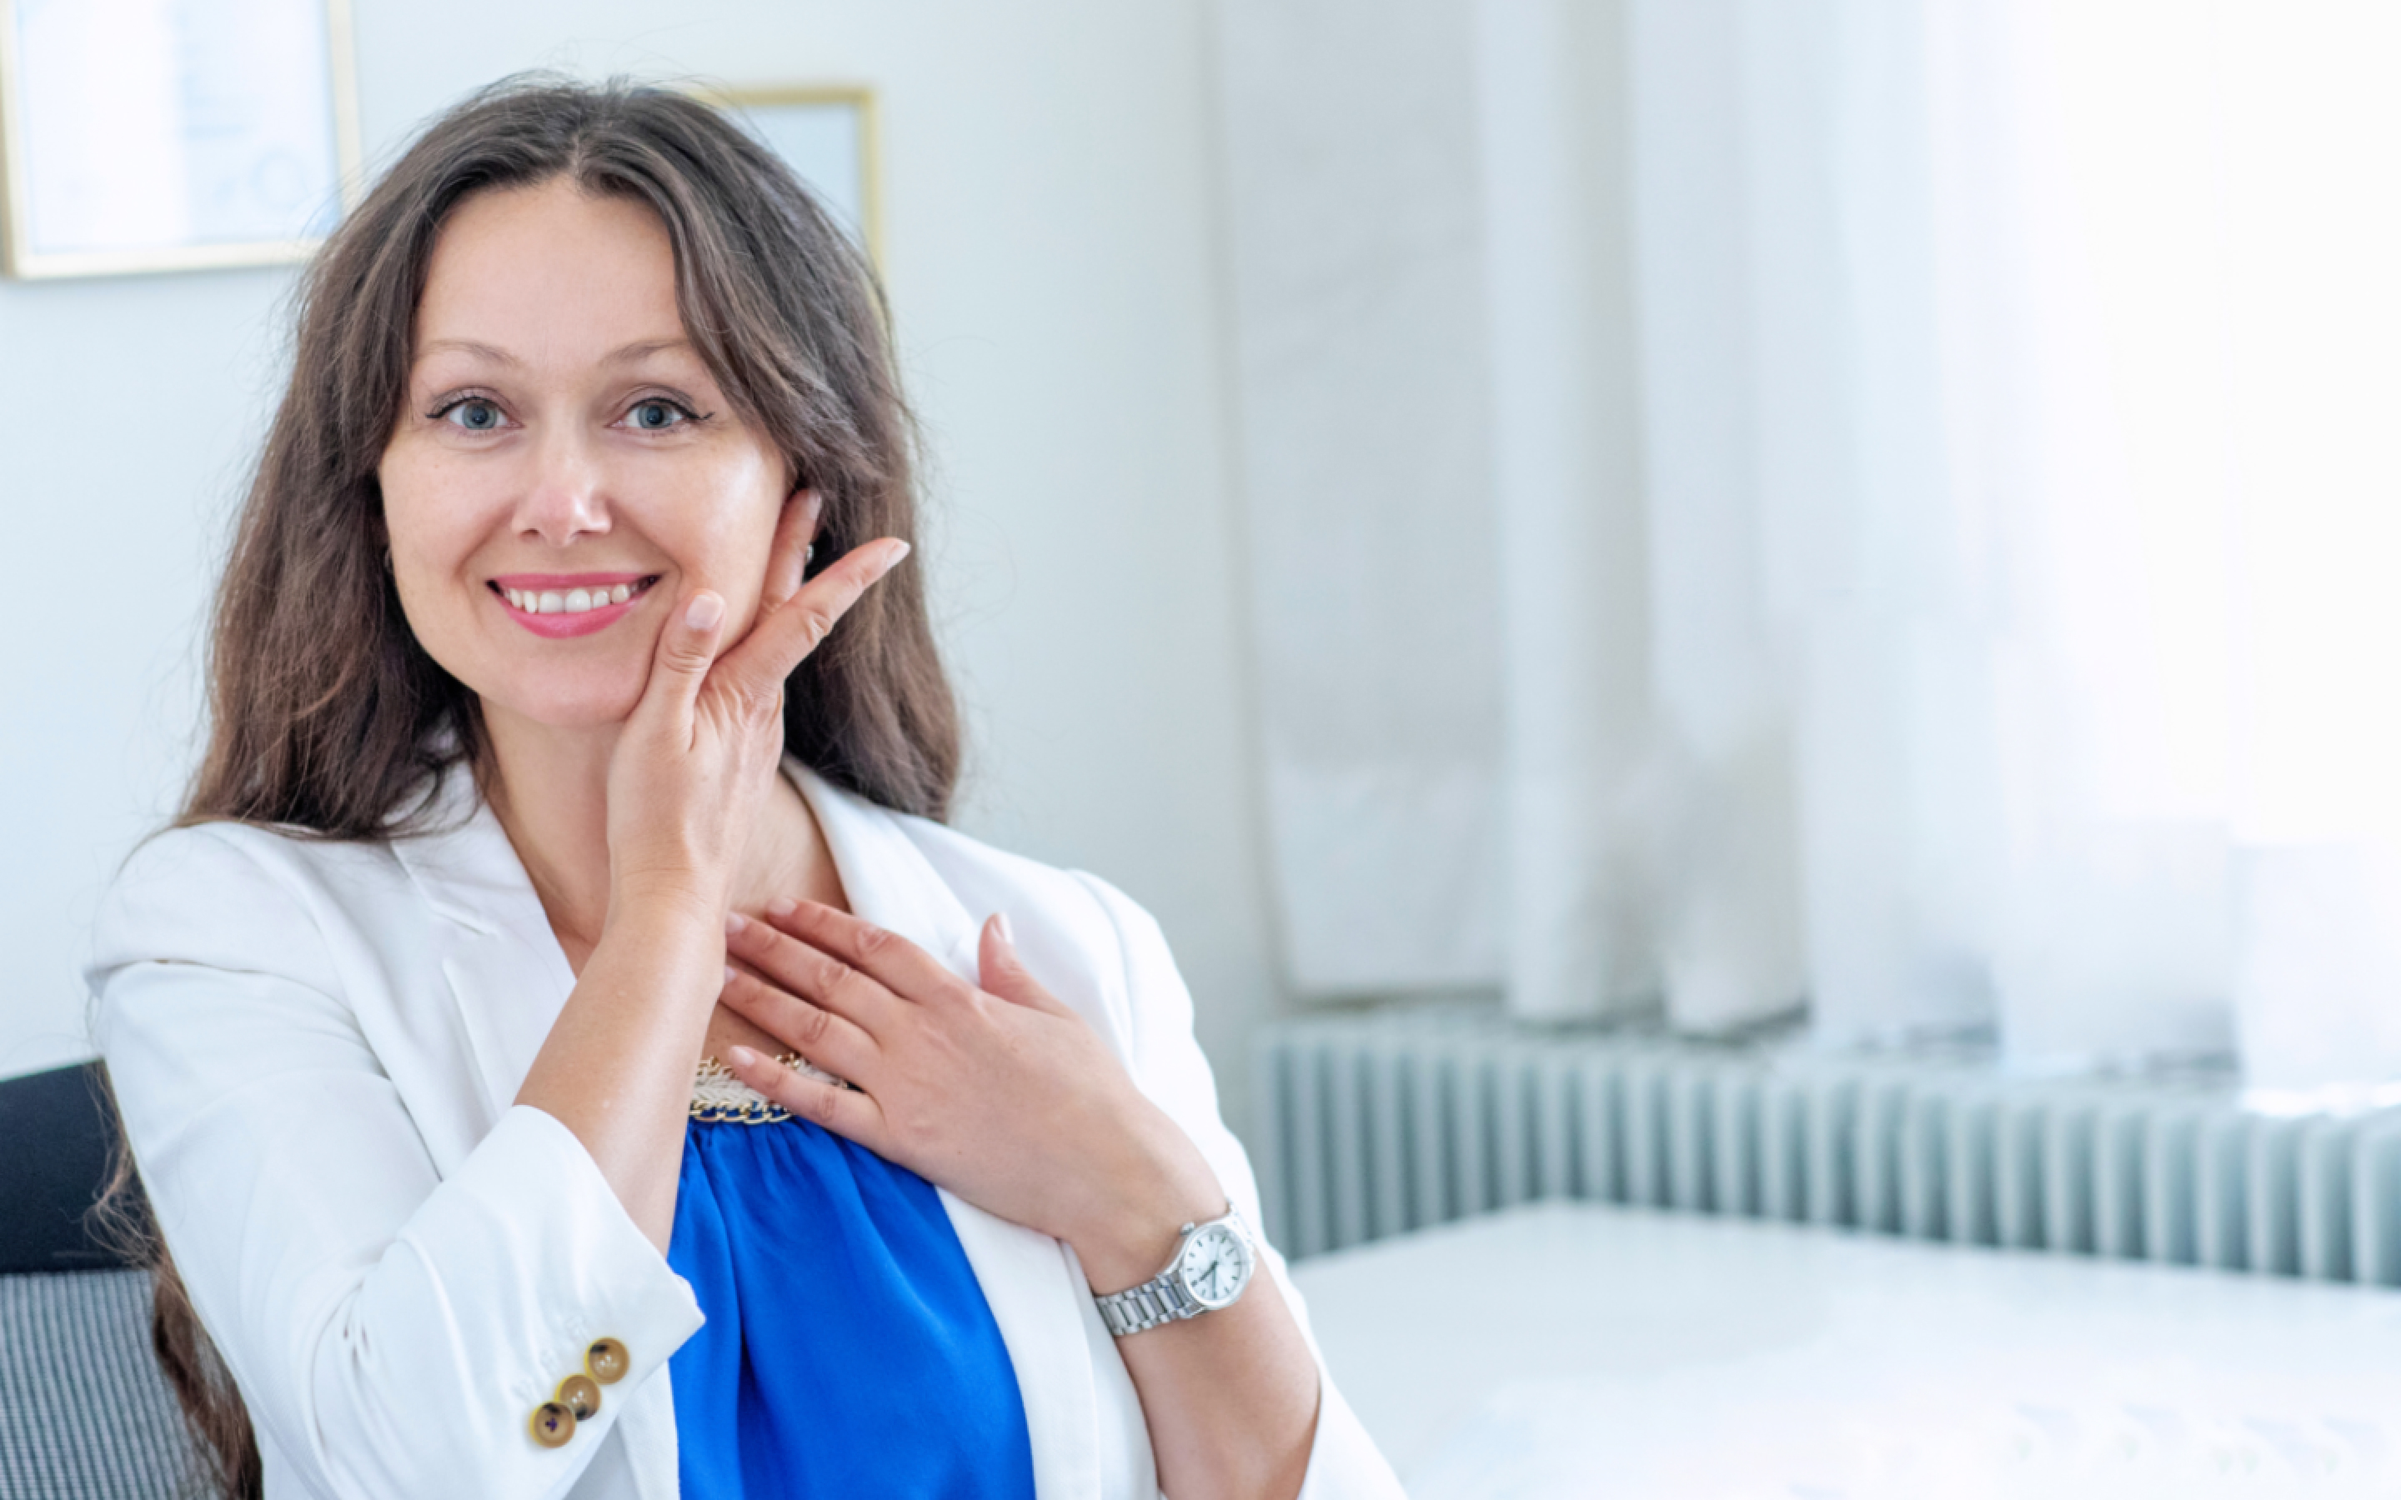
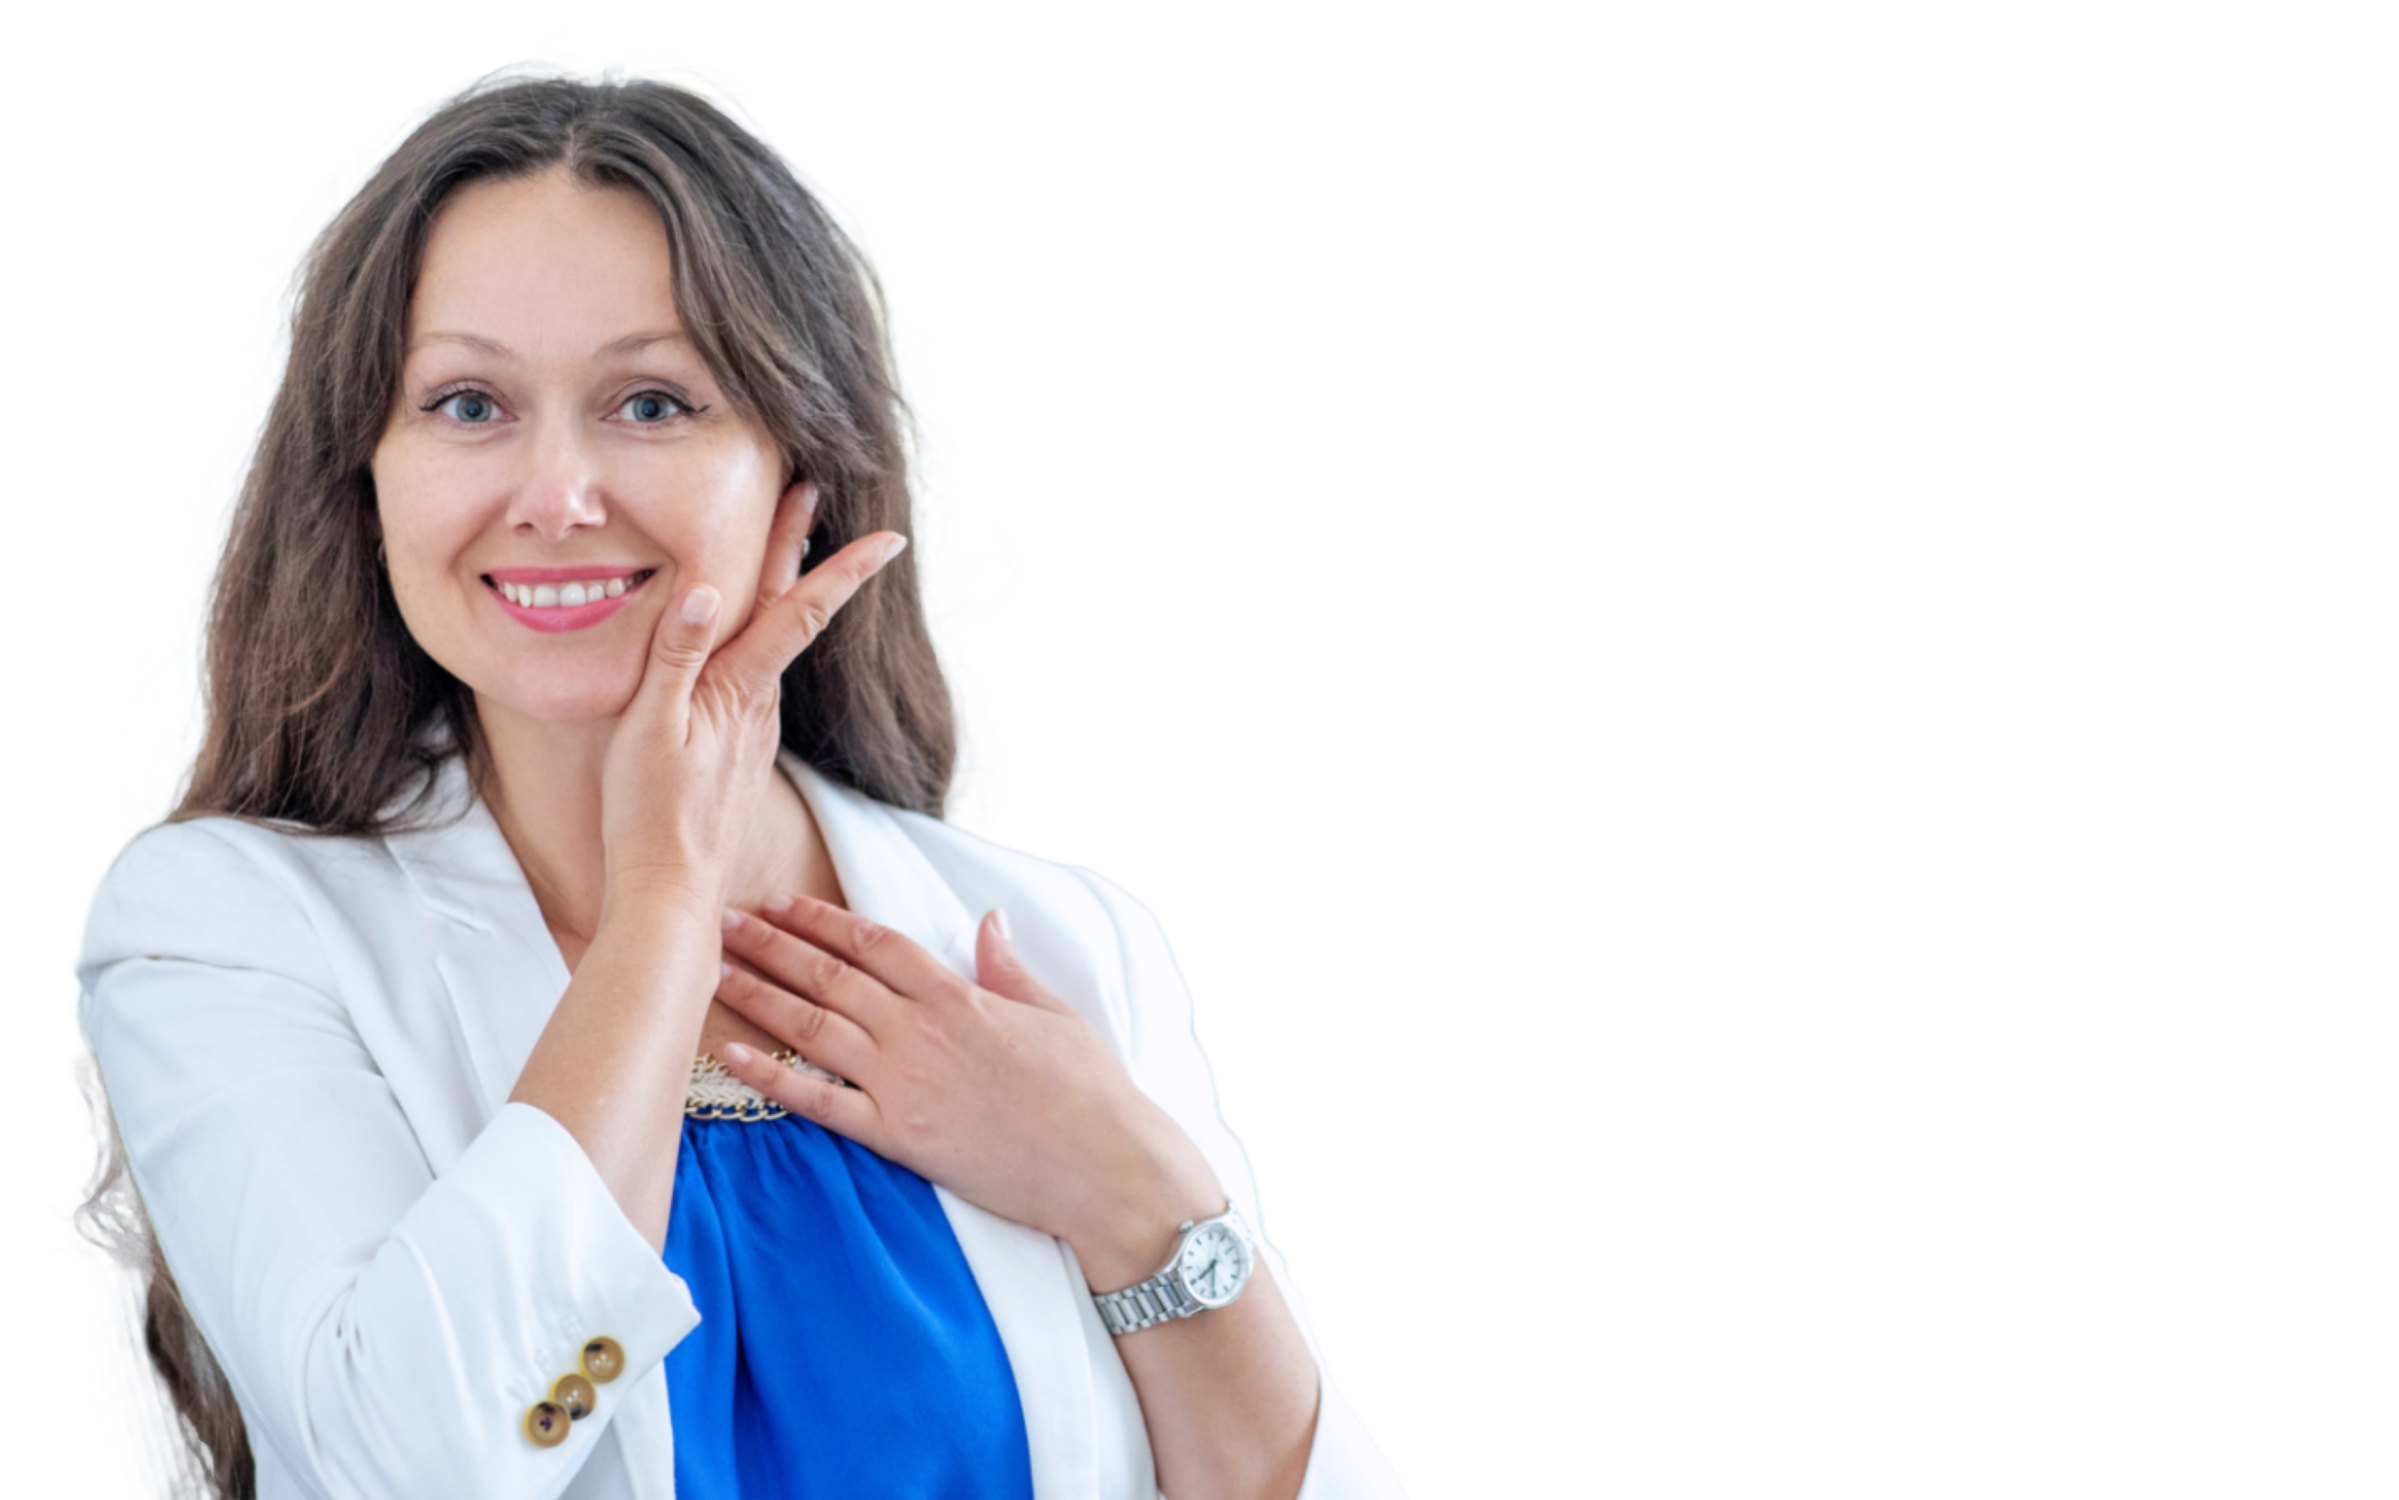
index

diff --git a/css/main.css b/css/main.css
@@ -398,7 +398,7 @@ body {
   height: 900px;
   justify-content: space-between;
   gap: 40px;
-  background: url(../img/intro.jpg) no-repeat center top/cover;
+  background: #F7F7F7 url(../img/intro.png) no-repeat center top/cover;
   align-items: stretch;
   padding: 0;
 }
@@ -903,5 +903,48 @@ body {
   }
   .online__pic {
     opacity: 0.5;
+  }
+}
+@media only screen and (max-width: 1024px) {
+  .container {
+    padding: 0 20px;
+  }
+  .intro {
+    position: relative;
+    display: flex;
+    flex-direction: column;
+    padding: 70px 0 400px;
+    height: auto;
+    justify-content: flex-start;
+    gap: 20px;
+    background: #F7F7F7;
+  }
+  .intro .container {
+    display: flex;
+    justify-content: center;
+  }
+  .intro__desc {
+    align-items: center;
+    text-align: center;
+  }
+  .intro .container::after {
+    left: -50%;
+    top: auto;
+    bottom: -120px;
+    height: 400%;
+    width: 200%;
+    background: rgba(255, 255, 255, 0.8);
+    border-radius: 50%;
+  }
+  .intro .container:before {
+    content: "";
+    display: block;
+    position: absolute;
+    width: 100%;
+    height: 350px;
+    background: url(../img/intro_min.png) no-repeat center center/contain;
+    bottom: -400px;
+    left: 0;
+    z-index: 100;
   }
 }/*# sourceMappingURL=main.css.map */

diff --git a/css/_query.scss b/css/_query.scss
@@ -1,5 +1,3 @@
-
-
 @media only screen and (max-width: 1280px) {
     .container {
         width: 100%;
@@ -41,6 +39,57 @@
     .online__pic{
         opacity: .5;
     }
+}
+
+@media only screen and (max-width: 1024px) {
+    .container {
+        padding: 0 20px;
+    }
+    .intro {
+        position: relative;
+        display: flex;
+        flex-direction: column;
+        padding: 70px 0 400px;
+        height: auto;
+        justify-content: flex-start;
+        gap: 20px;
+        background: #F7F7F7;
+    }
+    .intro .container {
+        display: flex;
+        justify-content: center;
+    }
+    .intro__desc{
+        align-items: center;
+        text-align: center;
+    }
+    .intro .container::after{
+        left: -50%;
+        top: auto;
+        bottom: -120px;
+        height: 400%;
+        width: 200%;
+        background: rgba(255, 255, 255, 0.8);
+        //background: red;
+        border-radius: 50%;
+
+    }
+    .intro .container:before{
+        content: '';
+        display: block;
+        position: absolute;
+        width: 100%;
+        height: 350px;
+        background: url(../img/intro_min.png) no-repeat center center / contain;
+        bottom: -400px;
+        left: 0;
+        z-index: 100;
+    }
+
+
+
+
+
 
 
 

diff --git a/css/main.scss b/css/main.scss
@@ -310,7 +310,7 @@ body {
     height: 900px;
     justify-content: space-between;
     gap: 40px;
-    background: url(../img/intro.jpg) no-repeat center top / cover;
+    background: #F7F7F7 url(../img/intro.png) no-repeat center top / cover;
     align-items: stretch;
     padding: 0;
     &__desc {
